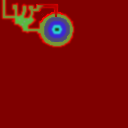
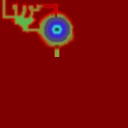
Added light to cave

Changed region(s): [[0.4688, 0.0938, 0.5938, 0.3438], [0.2812, 0.25, 0.4688, 0.4688], [0.3125, 0.0625, 0.4375, 0.1875]]

diff --git a/Escape/game/game.cpp b/Escape/game/game.cpp
@@ -99,14 +99,15 @@ bool Game::gameLoop()
 	//**** LIGHT STUFF ****
 	//Light* sun = new Light(glm::vec3(250, 1, 250), glm::vec3(1, 1, 0), glm::vec3(1, 0.01, 0.002));
 	Light* sun = new Light(glm::vec3(0, 1, 0), glm::vec3(0.4f, 0.4f, 0.4f));
-	Light* sun2 = new Light(glm::vec3(500, 20, 0), glm::vec3(1.0f, 1.0f, 0.4f));
+	Light* sun2 = new Light(glm::vec3(112, 6, 10), glm::vec3(1.0f, 0.6f, 0.0f));
 	Light* sun3 = new Light(glm::vec3(0, 20, 500), glm::vec3(0.0f, 0.0f, 10.0f));
 	Light* sun4 = new Light(glm::vec3(500, 20, 500), glm::vec3(0.0f, 10.0f, 0.0f));
 	//Light* lamp = new Light(mPlayer->getCameraPosition(), glm::vec3(2.0f, 0.0f, 0.0f), glm::vec3(1, 0.01, 0.002));
 	Light* lamp = new Light(glm::vec3(45.0f, terrain.getHeight(45.0f, 45.0f) + 15, 45.0f), glm::vec3(1.0f,0.0f,0.0f), glm::vec3(1, 0.01, 0.002));
 	vector<Light*> lights;
 	lights.push_back(sun);
-	// lights.push_back(sun2);
+	lights.push_back(sun2);
+
 	// lights.push_back(sun3);
 	// lights.push_back(sun4);
 	// lights.push_back(lamp);

diff --git a/Escape/player/player.cpp b/Escape/player/player.cpp
@@ -34,6 +34,11 @@ Player::~Player()
 	delete mEye;
 }
 
+void Player::playWalkingSound(const char* pWalkingSound, GLenum pEnum)
+{
+	std::cout << rand() << std::endl;
+}
+
 // Function to move the player	
 void Player::move(Terrain* pTerrain, float pDelta)
 {
@@ -44,9 +49,7 @@ void Player::move(Terrain* pTerrain, float pDelta)
 	
 	// play walk sound if needed
 	if (dPos != 0 && !mJumping && !isBelowLake()) {
-		if (!WalkSound->isCurrentlyPlaying("audio/steps.wav")) {
-			WalkSound->play2D("audio/steps.wav", GL_FALSE);
-		}
+		playWalkingSound("audio/walking.wav", GL_FALSE);
 	}
 	else if(isBelowLake()) {
 		if (!WalkSound->isCurrentlyPlaying("audio/underwater.mp3")) {

diff --git a/Escape/player/player.hpp b/Escape/player/player.hpp
@@ -138,4 +138,5 @@ private:
 
 	// Sets Movement Variables
 	void setMoveVariables();
+	void playWalkingSound(const char* pWalkingSound, GLenum pEnum);
 };
